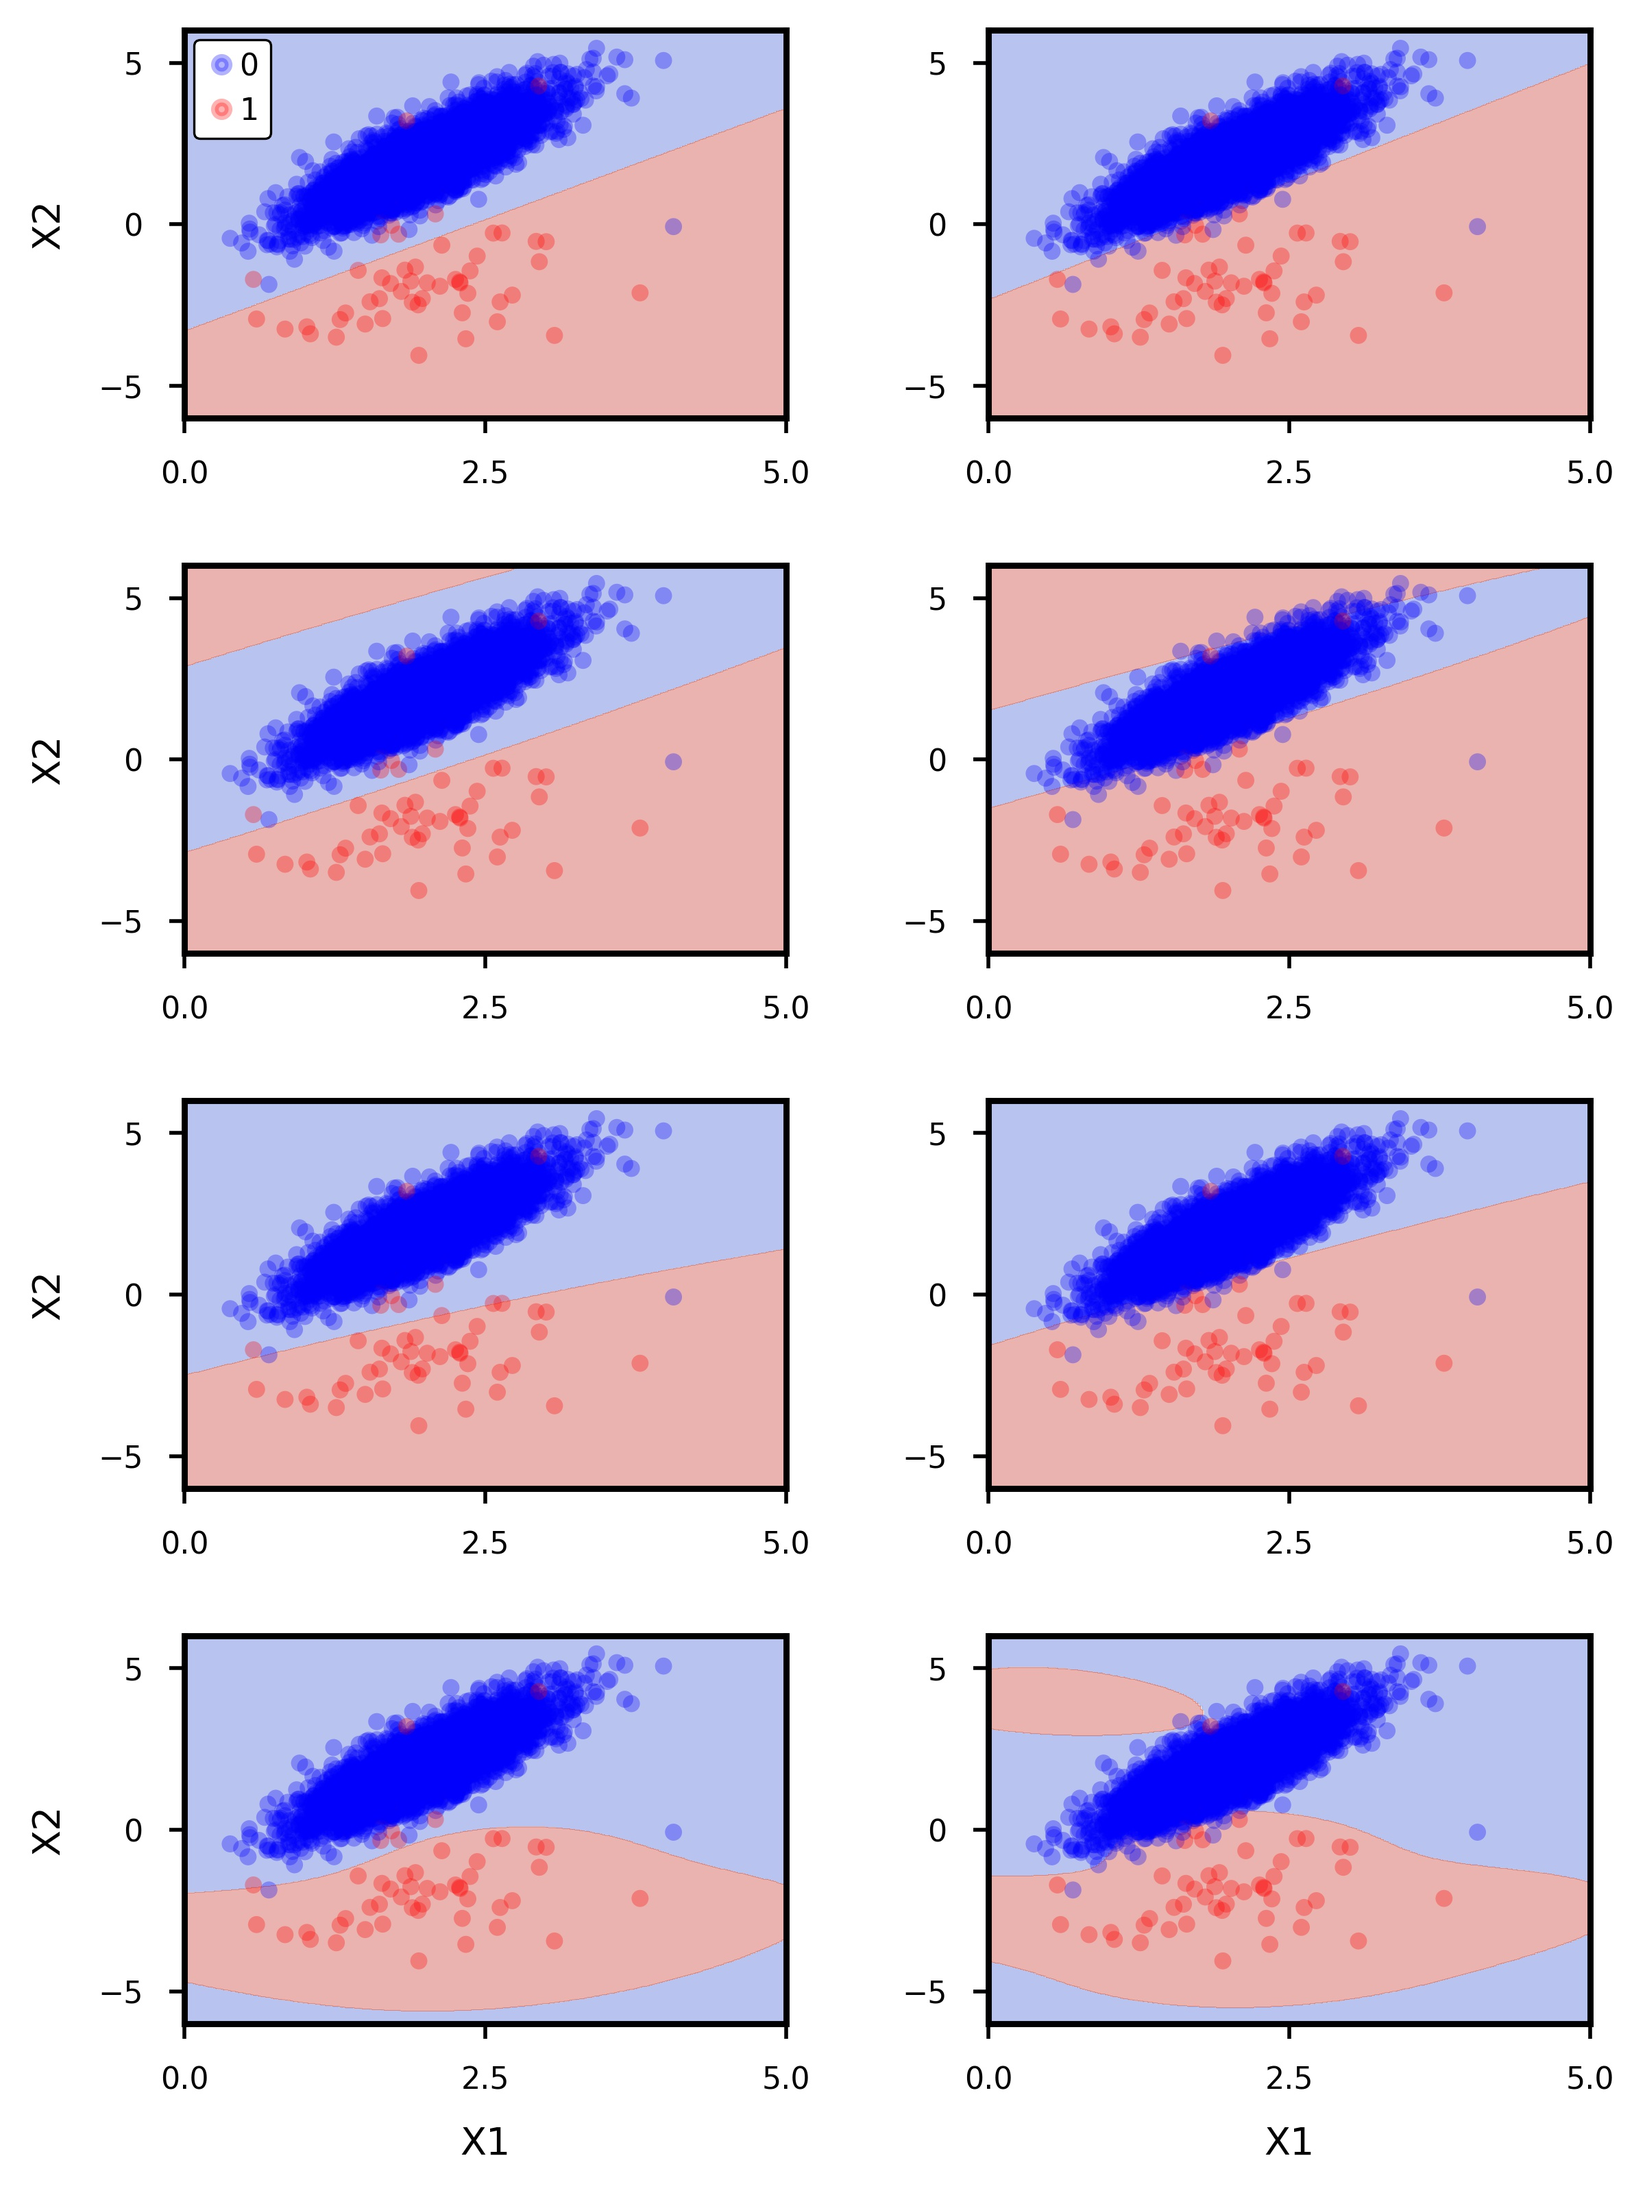
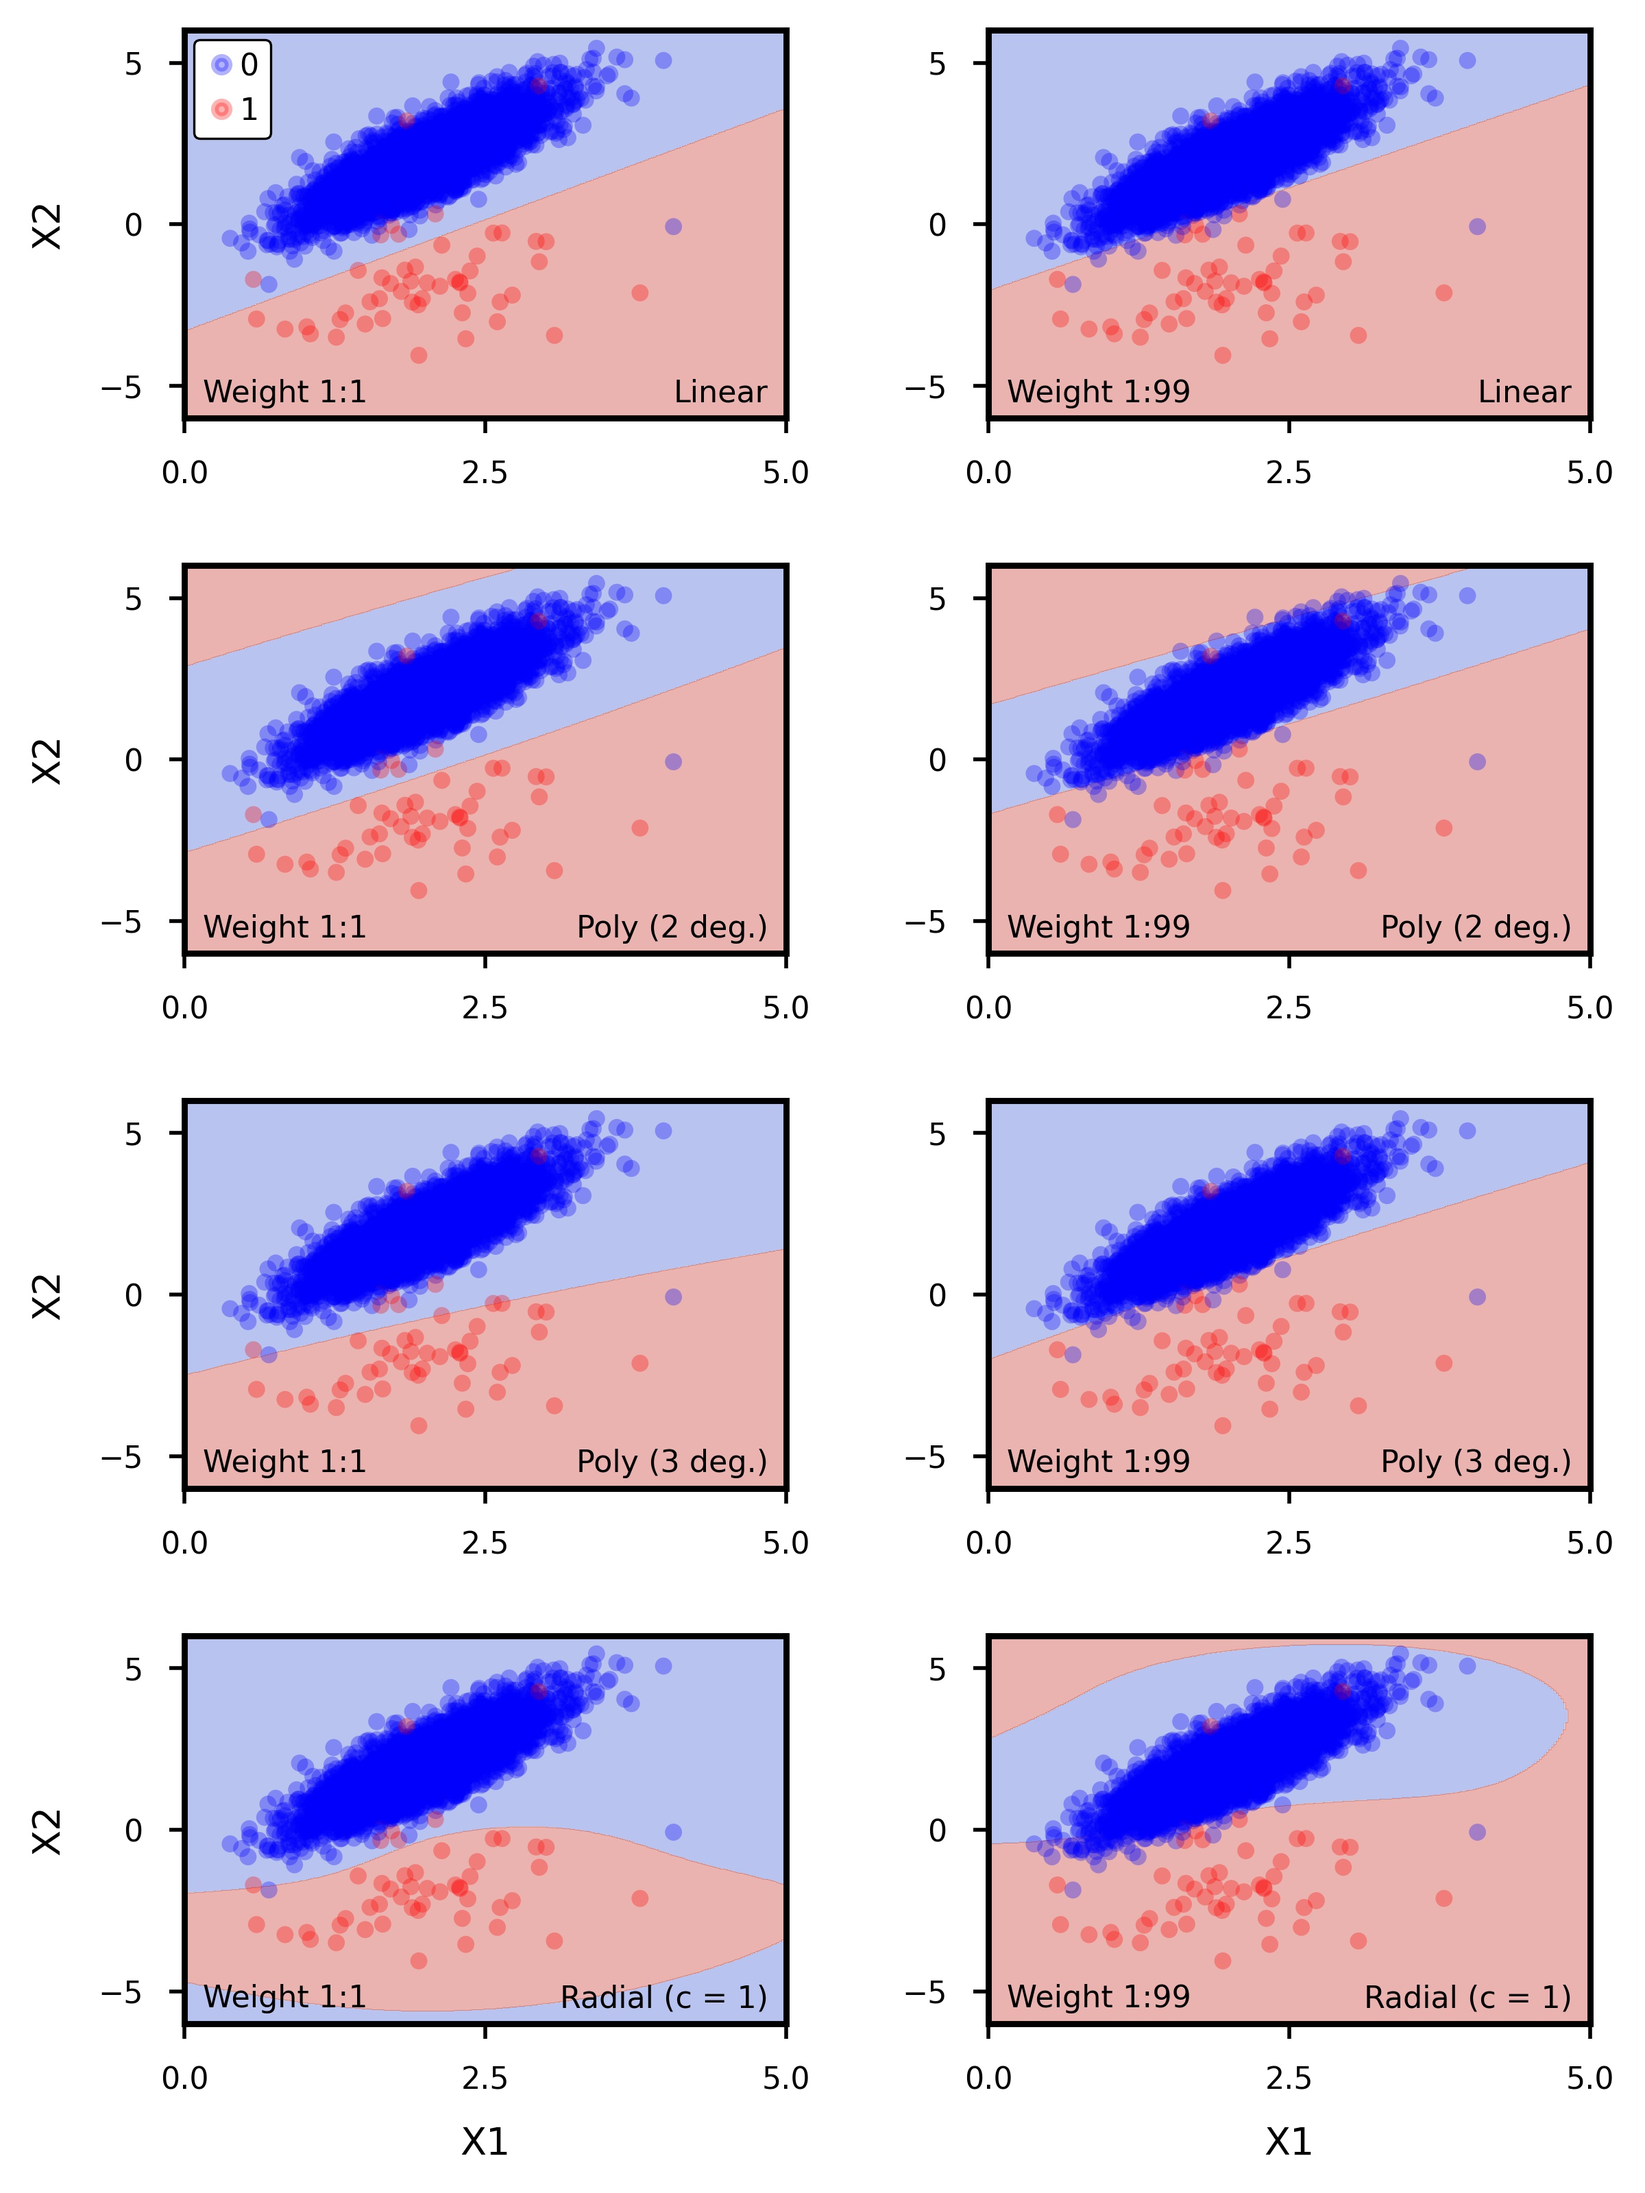
Miscellaneous fixes 14
Improved SVM and discriminant plots by adding text on method and weights (where applicable).

diff --git a/ImbalancedLearning.py b/ImbalancedLearning.py
@@ -118,10 +118,12 @@ ax = pyplot.subplot(1, 2, 1)
 xx, yy = plot_meshpoints(train_x[:, 0], train_x[:, 1])
 plot_contours(ax, clfLDA, xx, yy, cmap = pyplot.cm.coolwarm, alpha = 0.4)
 plot_scatter(d_x = train_x, d_y = train_y, fontsize = 4)
+ax.text(4.85, -5.5, "LDA", fontsize = 4, horizontalalignment = "right")
 ax = pyplot.subplot(1, 2, 2)
 xx, yy = plot_meshpoints(train_x[:, 0], train_x[:, 1])
 plot_contours(ax, clfQDA, xx, yy, cmap = pyplot.cm.coolwarm, alpha = 0.4)
 plot_scatter(d_x = train_x, d_y = train_y, x2lab = False, legend = False)
+ax.text(4.85, -5.5, "QDA", fontsize = 4, horizontalalignment = "right")
 pyplot.tight_layout(pad = 0.4, w_pad = 1.2, h_pad = 1.0)
 pyplot.savefig("Plot_DA.jpeg", dpi = 800, facecolor = "white")
 
@@ -202,34 +204,50 @@ ax = pyplot.subplot(4, 2, 1)
 xx, yy = plot_meshpoints(train_x[:, 0], train_x[:, 1])
 plot_contours(ax, clfLin, xx, yy, cmap = pyplot.cm.coolwarm, alpha = 0.4)
 plot_scatter(d_x = train_x, d_y = train_y, x1lab = False, fontsize = 4)
+ax.text(0.15, -5.5, "Weight 1:1", fontsize = 4, horizontalalignment = "left")
+ax.text(4.85, -5.5, "Linear", fontsize = 4, horizontalalignment = "right")
 ax = pyplot.subplot(4, 2, 2)
 xx, yy = plot_meshpoints(train_x[:, 0], train_x[:, 1])
 plot_contours(ax, clfLinC, xx, yy, cmap = pyplot.cm.coolwarm, alpha = 0.4)
 plot_scatter(d_x = train_x, d_y = train_y, x1lab = False, x2lab = False, legend = False)
+ax.text(0.15, -5.5, "Weight 1:99", fontsize = 4, horizontalalignment = "left")
+ax.text(4.85, -5.5, "Linear", fontsize = 4, horizontalalignment = "right")
 ax = pyplot.subplot(4, 2, 3)
 xx, yy = plot_meshpoints(train_x[:, 0], train_x[:, 1])
 plot_contours(ax, clf2dg, xx, yy, cmap = pyplot.cm.coolwarm, alpha = 0.4)
 plot_scatter(d_x = train_x, d_y = train_y, x1lab = False, legend = False)
+ax.text(0.15, -5.5, "Weight 1:1", fontsize = 4, horizontalalignment = "left")
+ax.text(4.85, -5.5, "Poly (2 deg.)", fontsize = 4, horizontalalignment = "right")
 ax = pyplot.subplot(4, 2, 4)
 xx, yy = plot_meshpoints(train_x[:, 0], train_x[:, 1])
 plot_contours(ax, clf2dgC, xx, yy, cmap = pyplot.cm.coolwarm, alpha = 0.4)
 plot_scatter(d_x = train_x, d_y = train_y, x1lab = False, x2lab = False, legend = False)
+ax.text(0.15, -5.5, "Weight 1:99", fontsize = 4, horizontalalignment = "left")
+ax.text(4.85, -5.5, "Poly (2 deg.)", fontsize = 4, horizontalalignment = "right")
 ax = pyplot.subplot(4, 2, 5)
 xx, yy = plot_meshpoints(train_x[:, 0], train_x[:, 1])
 plot_contours(ax, clf3dg, xx, yy, cmap = pyplot.cm.coolwarm, alpha = 0.4)
 plot_scatter(d_x = train_x, d_y = train_y, x1lab = False, legend = False)
+ax.text(0.15, -5.5, "Weight 1:1", fontsize = 4, horizontalalignment = "left")
+ax.text(4.85, -5.5, "Poly (3 deg.)", fontsize = 4, horizontalalignment = "right")
 ax = pyplot.subplot(4, 2, 6)
 xx, yy = plot_meshpoints(train_x[:, 0], train_x[:, 1])
 plot_contours(ax, clf3dgC, xx, yy, cmap = pyplot.cm.coolwarm, alpha = 0.4)
 plot_scatter(d_x = train_x, d_y = train_y, x1lab = False, x2lab = False, legend = False)
+ax.text(0.15, -5.5, "Weight 1:99", fontsize = 4, horizontalalignment = "left")
+ax.text(4.85, -5.5, "Poly (3 deg.)", fontsize = 4, horizontalalignment = "right")
 ax = pyplot.subplot(4, 2, 7)
 xx, yy = plot_meshpoints(train_x[:, 0], train_x[:, 1])
 plot_contours(ax, clfRbf, xx, yy, cmap = pyplot.cm.coolwarm, alpha = 0.4)
 plot_scatter(d_x = train_x, d_y = train_y, legend = False)
+ax.text(0.15, -5.5, "Weight 1:1", fontsize = 4, horizontalalignment = "left")
+ax.text(4.85, -5.5, "Radial (c = 1)", fontsize = 4, horizontalalignment = "right")
 ax = pyplot.subplot(4, 2, 8)
 xx, yy = plot_meshpoints(train_x[:, 0], train_x[:, 1])
 plot_contours(ax, clfRbfC, xx, yy, cmap = pyplot.cm.coolwarm, alpha = 0.4)
 plot_scatter(d_x = train_x, d_y = train_y, x2lab = False, legend = False)
+ax.text(0.15, -5.5, "Weight 1:99", fontsize = 4, horizontalalignment = "left")
+ax.text(4.85, -5.5, "Radial (c = 1)", fontsize = 4, horizontalalignment = "right")
 pyplot.tight_layout(pad = 0.4, w_pad = 1.2, h_pad = 1.0)
 pyplot.savefig("Plot_SVM.jpeg", dpi = 800, facecolor = "white")
 
